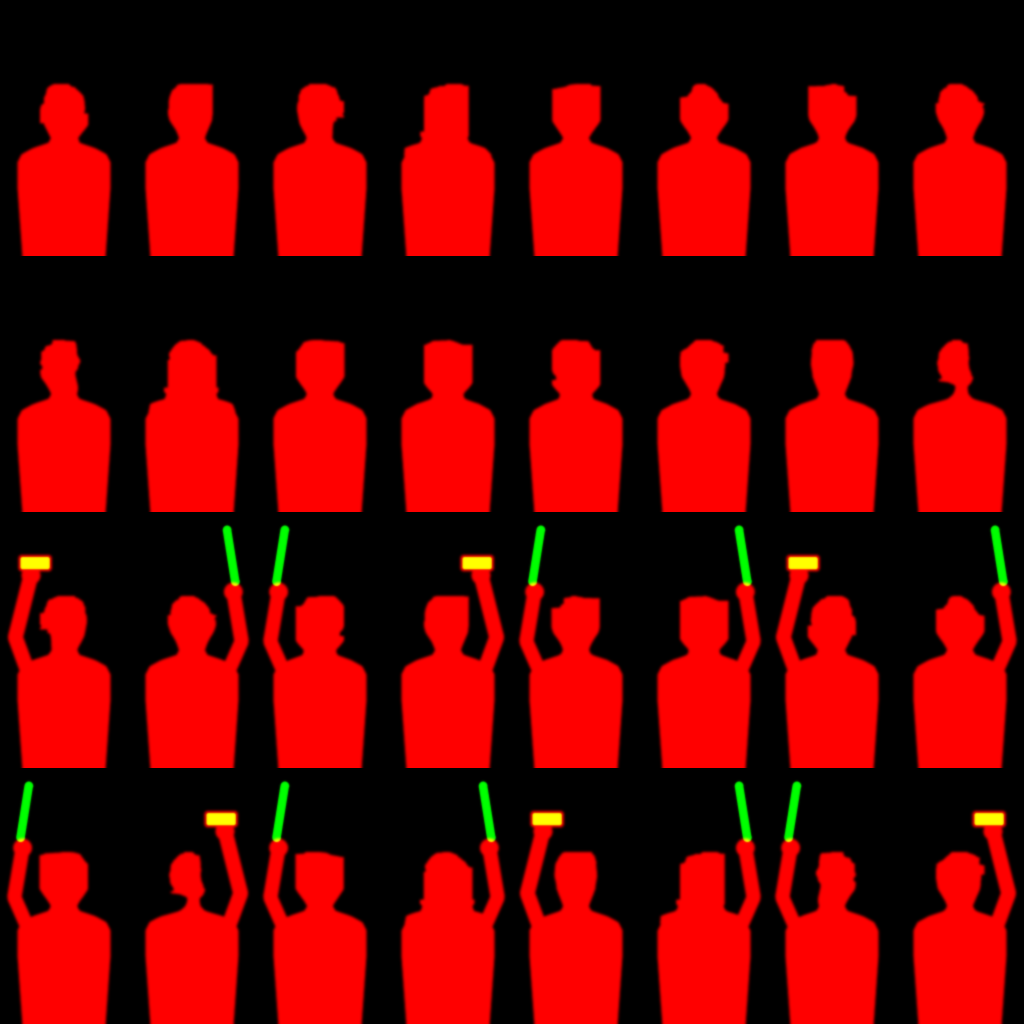
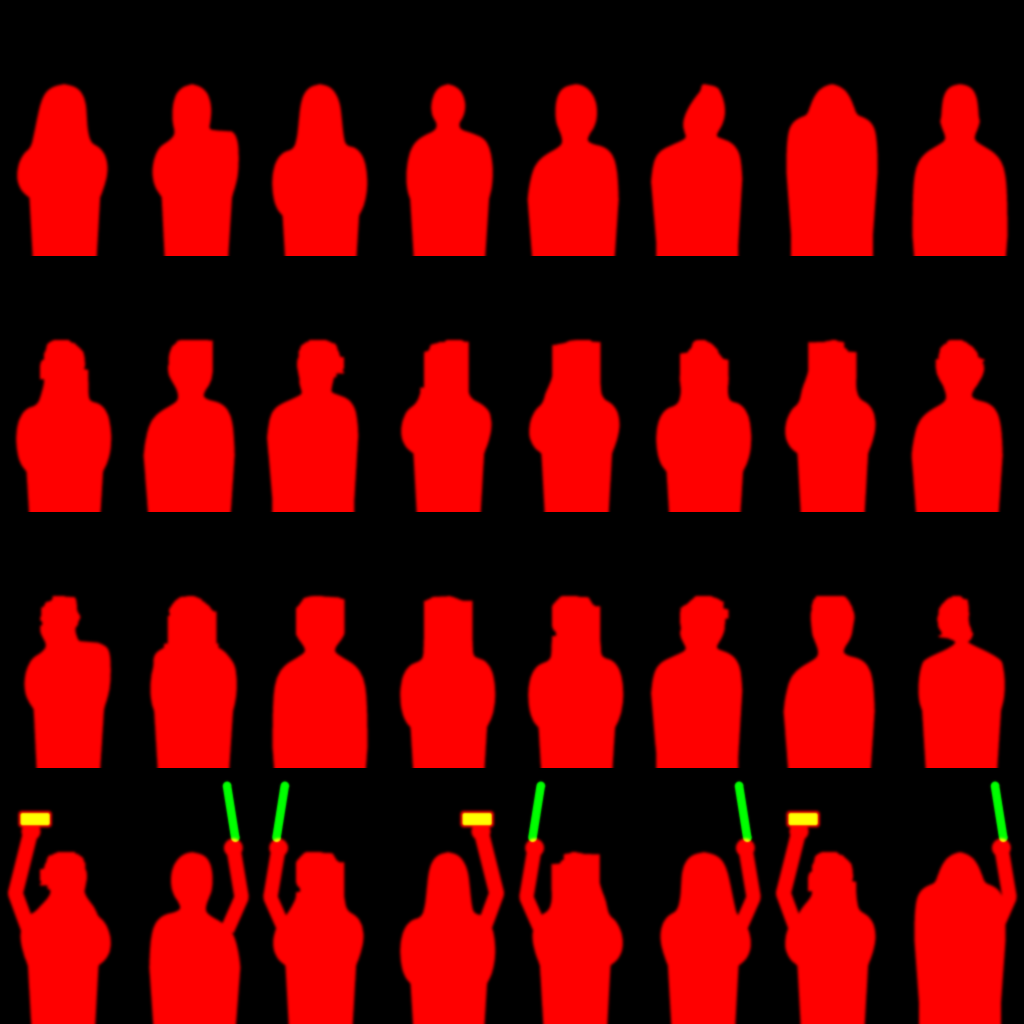
feat(crowd): backs, shoulders and hair traced from the photos; soft rim; trimmed cards
- 8 back views hand-traced from nest_首场_0001 (seated rows) and unknown_全价位_0006
  replace the single drawn shoulder template; the 16 photo heads continue into
  the traced back that fits each best. 24 plain cells + 8 with a phone or stick.
- Rim light falls off with distance: none on the nearest rows, soft further out.
- Plain cards are trimmed to the part of the atlas cell that holds the outline
  (38 % fewer alpha-tested fragments each); the rim texture read is skipped
  where there is no rim.

diff --git a/src/scene/Crowd.jsx b/src/scene/Crowd.jsx
@@ -39,13 +39,14 @@ const instMaterial = () => new THREE.ShaderMaterial({ uniforms: atmoUniforms(), 
 // ---- silhouette cutout boards -----------------------------------------------------------------
 // One card = one seated fan. The card turns about its vertical axis to face the camera (and
 // tips over when seen from above, so the fly-in from the map never sees it edge-on). Backs are
-// near-black with a rim of show light around the outline, like the heads in the seat-view
-// photos (nest_山顶_0005, nest_山顶_0006); seen from the stage side they take the wash colour.
+// near-black, like the heads in the seat-view photos (nest_山顶_0005, nest_山顶_0006): the nearest
+// rows are plain dark shapes, a few rows further on a soft rim of show light picks out heads
+// and shoulders, and far away it is gone again. Seen from the stage side they take the wash.
 const CARD_VS = /* glsl */ `
 ${GLSL_ATMO}
 attribute vec3 aPos; attribute vec4 aInfo;   // aInfo = variant, size, seed, lean (rad)
 uniform float uFoot;
-varying vec2 vUv; varying vec2 vQ; varying vec3 vTint; varying float vDist; varying float vFront; varying float vAtt; varying float vSeed;
+varying vec2 vUv; varying vec2 vQ; varying vec3 vTint; varying float vDist; varying float vFront; varying float vAtt; varying float vSeed; varying float vRim;
 void main(){
   vec3 toCam = cameraPosition - aPos; float dc = max(length(toCam), 1e-3); vec3 n = toCam/dc;
   vec2 rxz = normalize(vec2(n.z, -n.x) + vec2(1e-5, 0.));
@@ -53,14 +54,19 @@ void main(){
   vec3 up = normalize(mix(vec3(0.,1.,0.), cross(n, right), smoothstep(.55,.95,n.y)));
   float seed = aInfo.z;
   float lean = aInfo.w + .022*sin(uT*(1.1+seed) + seed*50.);
-  float y = position.y >= 0. ? position.y*${SIL.h.toFixed(2)} : position.y*uFoot;
-  vec2 q = vec2(position.x*${SIL.w.toFixed(2)}, y)*aInfo.y;
+  // Overdraw: a plain outline fills only the middle of its atlas cell (nothing above the head,
+  // nothing beside the shoulders), so its quad is trimmed to that part. Only the cells with a
+  // raised phone or stick need the whole cell. 38 % fewer alpha-tested fragments per plain card.
+  vec2 trim = aInfo.x < ${SIL.plain}. ? vec2(${SIL.trimX}, ${SIL.trimY}) : vec2(1.);
+  vec2 p = vec2(position.x*trim.x, position.y > 0. ? position.y*trim.y : position.y);
+  float y = p.y >= 0. ? p.y*${SIL.h.toFixed(2)} : p.y*uFoot;
+  vec2 q = vec2(p.x*${SIL.w.toFixed(2)}, y)*aInfo.y;
   q = vec2(q.x*cos(lean) - q.y*sin(lean), q.x*sin(lean) + q.y*cos(lean));
   vec3 wp = aPos + right*q.x + up*q.y;
   float var = aInfo.x; vec2 cell = vec2(mod(var, ${SIL.cols}.), floor(var/${SIL.cols}.));
-  float u = position.x + .5; if (fract(seed*7.31) > .5) u = 1. - u;
-  vUv = (cell + vec2(clamp(u,.02,.98), 1. - clamp(position.y, 0., .995)))/vec2(${SIL.cols}., ${SIL.rows}.);
-  vQ = position.xy; vSeed = seed;
+  float u = p.x + .5; if (fract(seed*7.31) > .5) u = 1. - u;
+  vUv = (cell + vec2(clamp(u,.02,.98), 1. - clamp(p.y, 0., .995)))/vec2(${SIL.cols}., ${SIL.rows}.);
+  vQ = p; vSeed = seed;
   // clothes: mostly dark, some pale tops (the floor blocks read pale in nest_917_0005)
   float h = fract(seed*13.7), h2 = fract(seed*91.3);
   vTint = mix(vec3(.05,.055,.07), vec3(.62,.6,.6), h*h*h)*vec3(.8+.4*h2, .78+.4*fract(h2*7.), .78+.5*fract(h2*13.));
@@ -68,12 +74,16 @@ void main(){
   vAtt = 1./(1.+pow(d/80.,2.));
   vFront = smoothstep(-.35,.35, dot(normalize(toCam.xz + 1e-4), normalize(-aPos.xz + 1e-4)));
   vec4 mv = viewMatrix*vec4(wp,1.); vDist = length(mv.xyz);
+  // Rim light by distance. A head that fills the screen (the row or two in front) gets none:
+  // there a rim is a drawn outline, and the photos show plain dark out-of-focus shapes. It
+  // comes in over the next rows (2.4 to 8 m) and fades again where a card is only a few pixels.
+  vRim = .7*smoothstep(2.4, 8., dc)*(1. - smoothstep(9., 20., dc))*vAtt*mix(1., .3, vFront);
   gl_Position = projectionMatrix*mv;
 }`;
 const CARD_FS = /* glsl */ `
 ${GLSL_ATMO}
 uniform sampler2D uAtlas;
-varying vec2 vUv; varying vec2 vQ; varying vec3 vTint; varying float vDist; varying float vFront; varying float vAtt; varying float vSeed;
+varying vec2 vUv; varying vec2 vQ; varying vec3 vTint; varying float vDist; varying float vFront; varying float vAtt; varying float vSeed; varying float vRim;
 void main(){
   vec3 amb = vec3(.030,.034,.048) + uCue*.03;
   vec3 c;
@@ -84,17 +94,20 @@ void main(){
   } else {
     vec4 t = texture2D(uAtlas, vUv);
     if (max(t.r, t.g) < .5) discard;
-    // rim light: the band just inside the cut edge, read from a blurrier mip
-    float soft = texture2D(uAtlas, vUv, 1.6).r;
-    // only the head and shoulders catch it, and it fades out with distance
-    float rim = (1. - smoothstep(.5,.8,soft))*smoothstep(.3,.5,vQ.y)*(1. - smoothstep(4.,16.,vDist));
+    // rim light: a soft band inside the cut edge, read from a blurrier mip (a glow, not a
+    // line). Head and shoulders only. The second texture read is skipped where there is no rim.
+    float rim = 0.;
+    if (vRim > .004) {
+      float soft = texture2D(uAtlas, vUv, 2.2).r;
+      rim = (1. - smoothstep(.5,.95,soft))*smoothstep(.3,.5,vQ.y)*vRim;
+    }
     vec3 back = vTint*amb*.22 + amb*.012;   // backs are near-black whatever the clothes
     vec3 front = vTint*(amb + uCue*vAtt*2.1 + vAtt*.3);
     // hair stays dark, the face catches the stage when seen from the front
     float head = smoothstep(.5,.56,vQ.y)*(1. - smoothstep(.13,.19,abs(vQ.x)));
     front = mix(front, vec3(.58,.42,.34)*(amb + uCue*vAtt*2.1 + vAtt*.3), head*.85);
     c = mix(back, front, vFront);
-    c += rim*(uCue*.5 + vec3(.04))*vAtt*mix(1., .3, vFront);
+    c += rim*(uCue*.5 + vec3(.04));
     // phone screens are white-blue, light sticks warm white with a cue tint; both bloom
     float tw = .55 + .45*pow(.5 + .5*sin(uT*(1. + vSeed*3.) + vSeed*40.), 2.);
     vec3 glow = mix(uEdge, vec3(1.,.93,.88), .45)*2.1*tw;

diff --git a/src/scene/silhouettes.js b/src/scene/silhouettes.js
@@ -1,10 +1,13 @@
 // Seated-audience silhouette atlas ("shadow cut boards"), baked from the dark foreground
 // audience in the XHS photos by scripts/bake_silhouettes.py.
 // 8 x 4 cells, R = soft silhouette mask, G = glow mask (phone screen, light stick).
-// Cells 0-15 are plain outlines, 16-31 hold a raised phone or light stick.
+// Cells 0-7 are whole figures traced from the photos (hair, shoulders, back), 8-23 are photo
+// heads on those traced backs, 24-31 hold a raised phone or light stick.
+// trimX / trimY: the part of a plain cell that holds the outline (bake script: head top at row 84
+// of 256, widest shoulder 53 px from the centre of the 128 px cell); card quads are trimmed to it.
 import * as THREE from "three";
 
-export const SIL = { cols: 8, rows: 4, plain: 16, w: 0.62, h: 1.24, url: `${import.meta.env.BASE_URL}stage/joker_xue_2026/crowd/silhouettes.webp` };
+export const SIL = { cols: 8, rows: 4, plain: 24, trimX: 0.88, trimY: 0.7, w: 0.62, h: 1.24, url: `${import.meta.env.BASE_URL}stage/joker_xue_2026/crowd/silhouettes.webp` };
 let atlasTex;
 export function silhouetteAtlas() {
   if (atlasTex) return atlasTex;

diff --git a/scripts/bake_silhouettes.py b/scripts/bake_silhouettes.py
@@ -7,10 +7,18 @@ and shoulder outline is cut out of the photo by thresholding the dark figure
 against the bright stage behind it. Only the outline is kept: the atlas holds
 black-and-white masks, no photo pixels, so no person can be recognised.
 
-Photos stop at the bottom edge of the frame, so the upper back below the
-photographed shoulder line is continued with a plain taper. Variants 16-31 are
-the same outlines mirrored, with a raised arm holding a phone or a light stick
-drawn on (shapes after nest_917_0005 and nest_山顶_0006).
+Backs and shoulders come from the photos too. TRACES holds eight people seen from
+behind whose hair, neck, shoulders and upper back are visible (seated rows in
+nest_首场_0001, the crowd in unknown_全价位_0006). They are not dark against a bright
+stage, so they cannot be thresholded; each is a polygon traced by hand over the
+photo, in photo pixels (accuracy about +-4 px).
+
+Cells 0-7   the eight traced figures, whole (hair, neck, shoulders, upper back).
+Cells 8-23  the sixteen thresholded heads. The photos stop at the bottom edge of
+            the frame, usually at the neck, so each head is continued with the
+            shoulder and back profile of the traced figure that fits it best.
+Cells 24-31 eight of the above mirrored, with a raised arm holding a phone or a
+            light stick drawn on (shapes after nest_917_0005 and nest_山顶_0006).
 
 Atlas: 8 x 4 cells of 128 x 256 px (one cell = a 0.62 x 1.24 m card).
   R = soft silhouette mask (alpha test at 0.5), G = glow mask (phone, stick).
@@ -109,20 +117,103 @@ def outline(shot):
     return rows, (hx0, hx1)
 
 
-TEMPLATE = [(0.0, 0.03), (0.02, 0.066), (0.06, 0.092), (0.12, 0.1), (0.18, 0.093), (0.23, 0.074), (0.262, 0.062), (0.285, 0.075), (0.31, 0.15), (0.34, 0.205), (0.38, 0.225), (0.5, 0.225), (0.85, 0.2), (2.0, 0.2)]
+# Hand-traced back views: f = photo, cx = head centre line, top = top of the hair, L / R = left
+# and right outline from the top down (photo px), sh = shoulder width the trace is scaled to
+# (metres; typical 0.40-0.46 m, the card is 0.62 m wide). mirror=True: the right half is hidden
+# behind a neighbour in the photo and is the left half mirrored.
+TRACES = [
+    dict(name='A long loose hair, seated', f='nest/nest_首场_0001.webp', cx=92, top=1117, sh=0.44,
+         L=[(78, 1120), (68, 1128), (62, 1142), (58, 1160), (54, 1180), (50, 1198), (40, 1206), (33, 1222), (32, 1240), (38, 1254), (48, 1262)],
+         R=[(106, 1120), (115, 1128), (120, 1142), (121, 1158), (122, 1175), (126, 1192), (138, 1198), (146, 1210), (148, 1228), (144, 1246), (138, 1262)]),
+    dict(name='B low ponytail, seated', f='nest/nest_首场_0001.webp', cx=207, top=1146, sh=0.42,
+         L=[(197, 1149), (190, 1157), (187, 1170), (187, 1185), (190, 1197), (184, 1204), (174, 1210), (168, 1222), (166, 1238), (169, 1252), (176, 1262)],
+         R=[(217, 1149), (224, 1157), (227, 1170), (226, 1184), (224, 1193), (236, 1194), (248, 1193), (254, 1203), (255, 1222), (254, 1242), (248, 1262)]),
+    dict(name='C long hair over puff sleeves, seated', f='nest/nest_首场_0001.webp', cx=330, top=1100, sh=0.46,
+         L=[(318, 1103), (310, 1112), (306, 1126), (304, 1145), (302, 1165), (298, 1180), (284, 1184), (275, 1196), (271, 1215), (272, 1238), (277, 1254), (284, 1262)],
+         R=[(342, 1103), (350, 1112), (355, 1126), (357, 1145), (359, 1165), (362, 1176), (374, 1178), (384, 1190), (388, 1210), (388, 1232), (384, 1250), (378, 1262)]),
+    dict(name='D hair up, seated', f='nest/nest_首场_0001.webp', cx=440, top=1107, sh=0.42,
+         L=[(430, 1110), (423, 1118), (419, 1132), (420, 1146), (427, 1157), (424, 1165), (410, 1171), (398, 1180), (391, 1196), (388, 1218), (389, 1238), (393, 1250)],
+         R=[(450, 1110), (458, 1118), (462, 1132), (460, 1146), (453, 1157), (456, 1164), (470, 1168), (486, 1175), (493, 1190), (496, 1212), (495, 1234), (491, 1250)]),
+    dict(name='E high ponytail, T-shirt', f='unknown/unknown_全价位_0006.webp', cx=424, top=1157, sh=0.44,
+         L=[(400, 1162), (386, 1175), (379, 1195), (377, 1220), (379, 1245), (386, 1262), (392, 1278), (393, 1293), (380, 1304), (358, 1316), (340, 1330), (328, 1348), (321, 1372), (316, 1400), (314, 1420)],
+         R=[(440, 1160), (456, 1172), (467, 1190), (472, 1212), (471, 1238), (464, 1258), (454, 1272), (449, 1286), (462, 1294), (486, 1299), (503, 1312), (513, 1332), (518, 1360), (520, 1390), (521, 1420)]),
+    dict(name='F clipped-up bun with loose strands', f='unknown/unknown_全价位_0006.webp', cx=208, top=1143, sh=0.44,
+         L=[(215, 1146), (200, 1160), (184, 1180), (170, 1200), (158, 1222), (150, 1245), (149, 1265), (154, 1282), (158, 1296), (140, 1306), (112, 1318), (88, 1330), (72, 1348), (64, 1372), (60, 1400), (58, 1420)],
+         R=[(246, 1150), (256, 1168), (264, 1190), (268, 1215), (266, 1240), (258, 1262), (248, 1278), (242, 1292), (262, 1299), (284, 1308), (300, 1324), (310, 1346), (314, 1375), (316, 1400), (316, 1420)]),
+    dict(name='G long straight hair down the back', f='unknown/unknown_全价位_0006.webp', cx=692, top=1097, sh=0.44, mirror=True, flip=True, join=False,
+         # traced on the photo's right side (hair edge, then the visible shoulder); stored as L of a flipped figure
+         L=[(702, 1099), (725, 1108), (745, 1125), (760, 1150), (772, 1180), (783, 1210), (806, 1218), (830, 1232), (846, 1255), (854, 1290), (858, 1350), (858, 1420)]),
+    dict(name='H short hair, broad shoulders', f='unknown/unknown_全价位_0006.webp', cx=578, top=1104, sh=0.46, mirror=True,
+         L=[(562, 1107), (550, 1116), (543, 1132), (540, 1152), (539, 1172), (536, 1182), (540, 1196), (546, 1210), (548, 1222), (530, 1234), (506, 1248), (490, 1268), (482, 1296), (479, 1340), (478, 1420)]),
+]
 
 
-def template(d):
-    """Half-width (m) of a seated person seen from behind, d metres below the top of the head."""
-    d = max(0.0, d)
-    for (d0, w0), (d1, w1) in zip(TEMPLATE, TEMPLATE[1:]):
+def chaikin(pts, n=2):
+    """Corner cutting: turns a coarse traced polyline into a smooth curve (ends kept)."""
+    for _ in range(n):
+        out = [pts[0]]
+        for (x0, y0), (x1, y1) in zip(pts, pts[1:]):
+            out += [(0.75 * x0 + 0.25 * x1, 0.75 * y0 + 0.25 * y1), (0.25 * x0 + 0.75 * x1, 0.25 * y0 + 0.75 * y1)]
+        pts = out + [pts[-1]]
+    return pts
+
+
+def trace_profile(tr):
+    """Traced figure -> (left, right) lists of (d, half-width), both in metres; d is measured
+    down from the top of the hair, half-widths from the head centre line."""
+    cx, top = tr['cx'], tr['top']
+    L = [(abs(x - cx), y - top) for x, y in tr['L']]
+    R = L if tr.get('mirror') else [(abs(x - cx), y - top) for x, y in tr['R']]
+    if tr.get('flip'):
+        L, R = R, L
+    k = tr['sh'] / (max(w for w, _ in L) + max(w for w, _ in R))  # photo px -> metres
+    side = lambda P: [(y * k, w * k) for w, y in chaikin([(0.0, 0.0)] + P)]
+    return side(L), side(R)
+
+
+def half_width(prof, d):
+    """Half-width (m) of a traced side d metres below the top of the head. Below the end of the
+    trace the back carries on down to the seat with a slight taper to the waist."""
+    if d <= prof[0][0]:
+        return prof[0][1]
+    for (d0, w0), (d1, w1) in zip(prof, prof[1:]):
         if d <= d1:
-            return w0 + (w1 - w0) * (d - d0) / (d1 - d0)
-    return TEMPLATE[-1][1]
+            return w0 + (w1 - w0) * (d - d0) / max(1e-6, d1 - d0)
+    d_end, w_end = prof[-1]
+    return w_end * (1 - 0.1 * min(1.0, (d - d_end) / 0.3))
 
 
-def cell_mask(rows, head, mirror=False):
-    """Scale the photo outline so the head is HEAD_W wide, continue the upper back below it."""
+PROFILES = [trace_profile(t) for t in TRACES]
+
+
+def traced_cell(i, mirror=False):
+    """One traced figure, whole."""
+    L, R = PROFILES[i]
+    if mirror:
+        L, R = R, L
+    S = 4
+    im = Image.new('L', (CW * S, CH * S), 0)
+    ys = [HEAD_TOP + j * 0.75 for j in range(int((CH + 2 - HEAD_TOP) / 0.75))]
+    left = [((CW / 2 - half_width(L, (y - HEAD_TOP) / PX) * PX) * S, y * S) for y in ys]
+    right = [((CW / 2 + half_width(R, (y - HEAD_TOP) / PX) * PX) * S, y * S) for y in ys]
+    ImageDraw.Draw(im).polygon(left + right[::-1], fill=255)
+    return im, S
+
+
+
+
+def best_back(d_end, la, ra, used):
+    """The traced figure whose outline is closest to the photo outline where the photo stops.
+    Figures already used often are penalised so that all eight backs appear."""
+    def cost(i):
+        L, R = PROFILES[i]
+        return abs(half_width(L, d_end) - la) + abs(half_width(R, d_end) - ra) + 0.012 * used.count(i)
+    # the hair curtain (G) only stands as itself: joined under another head it reads as a slab
+    return min((i for i in range(len(PROFILES)) if TRACES[i].get('join', True)), key=cost)
+
+
+def cell_mask(rows, head, mirror=False, used=None, back=None):
+    """Scale the photo outline so the head is HEAD_W wide, continue it with a traced back."""
     hx0, hx1 = head
     k = HEAD_W * PX / max(1, hx1 - hx0)  # photo px -> cell px
     cx = (hx0 + hx1) / 2
@@ -139,23 +230,30 @@ def cell_mask(rows, head, mirror=False):
             a, b = -b, -a
         pts_l.append((CW / 2 + a, y))
         pts_r.append((CW / 2 + b, y))
-    # Continue below the photo edge with a seated back view: rest of the head, neck, shoulders,
-    # upper back. The template is scaled to meet the photo outline where the photo stops.
+    # Below the photo edge: neck, shoulders and upper back of a traced figure. Its profile is
+    # scaled to meet the photo outline where the photo stops, and relaxes to true size over 0.1 m.
     y_end = pts_l[-1][1]
     d_end = (y_end - HEAD_TOP) / PX
     la, ra = (CW / 2 - pts_l[-1][0]) / PX, (pts_r[-1][0] - CW / 2) / PX
-    tl, tr = la / template(d_end), ra / template(d_end)
+    if back is None:
+        back = best_back(d_end, la, ra, used if used is not None else [])
+    if used is not None:
+        used.append(back)
+    L, R = PROFILES[back]
+    if mirror:
+        L, R = R, L
+    tl, tr = la / max(0.02, half_width(L, d_end)), ra / max(0.02, half_width(R, d_end))
     y = y_end
     while y < CH + 2:
         y += 1.5
         d_m = (y - HEAD_TOP) / PX
         f = min(1.0, (d_m - d_end) / 0.1)
         f = f * f * (3 - 2 * f)
-        pts_l.append((CW / 2 - template(d_m) * (tl + (1 - tl) * f) * PX, y))
-        pts_r.append((CW / 2 + template(d_m) * (tr + (1 - tr) * f) * PX, y))
+        pts_l.append((CW / 2 - half_width(L, d_m) * (tl + (1 - tl) * f) * PX, y))
+        pts_r.append((CW / 2 + half_width(R, d_m) * (tr + (1 - tr) * f) * PX, y))
     poly = [(x * S, y * S) for x, y in pts_l] + [(x * S, y * S) for x, y in reversed(pts_r)]
     d.polygon(poly, fill=255)
-    return im, S
+    return im, S, back
 
 
 def add_prop(im, S, kind, side):
@@ -188,7 +286,7 @@ def add_prop(im, S, kind, side):
 
 
 def main():
-    cells, used = [], []
+    cells, used, shots = [], [], []
     for shot in SHOTS:
         res = outline(shot)
         if not res or len(res[0]) < 12:
@@ -196,29 +294,39 @@ def main():
             continue
         cells.append(res)
         used.append(shot['f'])
+        shots.append(shot['f'])
     print(len(cells), 'outlines from', len(set(used)), 'photos')
     atlas = Image.new('RGB', (CW * COLS, CH * ROWS), (0, 0, 0))
-    n = COLS * ROWS
+    n, nt, backs = COLS * ROWS, len(TRACES), []
+    plain = nt + len(cells)
     for i in range(n):
-        if i < len(cells):
-            rows, head = cells[i]
-            im, S = cell_mask(rows, head)
+        if i < nt:
+            im, S = traced_cell(i)
             glow = Image.new('L', im.size, 0)
+        elif i < plain:
+            rows, head = cells[i - nt]
+            im, S, back = cell_mask(rows, head, used=backs)
+            glow = Image.new('L', im.size, 0)
+            print(f'  cell {i}: head from {shots[i - nt]}, back {TRACES[back]["name"]}')
         else:
-            j = i - len(cells)
-            rows, head = cells[(j * 5 + 2) % len(cells)]
-            im, S = cell_mask(rows, head, mirror=j % 2 == 0)
+            j = i - plain
+            if j % 2:
+                im, S = traced_cell((j * 3 + 1) % nt, mirror=j % 4 == 1)
+            else:
+                rows, head = cells[(j * 5 + 2) % len(cells)]
+                im, S, _ = cell_mask(rows, head, mirror=j % 4 == 0, back=(j * 3) % 6)
             glow = add_prop(im, S, 'phone' if j % 3 == 0 else 'stick', 1 if j % 2 else -1)
         small = lambda m, blur: m.resize((CW, CH), Image.Resampling.LANCZOS).filter(ImageFilter.GaussianBlur(blur))
         r, g = small(im, 1.3), small(glow, 0.8)
         cell = Image.merge('RGB', (r, g, Image.new('L', (CW, CH), 0)))
         atlas.paste(cell, ((i % COLS) * CW, (i // COLS) * CH))
+    print(plain, 'plain cells (set SIL.plain in src/scene/silhouettes.js),', n - plain, 'with a phone or stick')
     OUT.parent.mkdir(parents=True, exist_ok=True)
     atlas.save(OUT, 'WEBP', lossless=True, method=6)
     print(OUT, OUT.stat().st_size, 'bytes')
     if len(sys.argv) > 1:
         atlas.save(sys.argv[1])
-    for f in sorted(set(used)):
+    for f in sorted(set(shots) | {t['f'] for t in TRACES}):
         print('  used', f)
 
 
